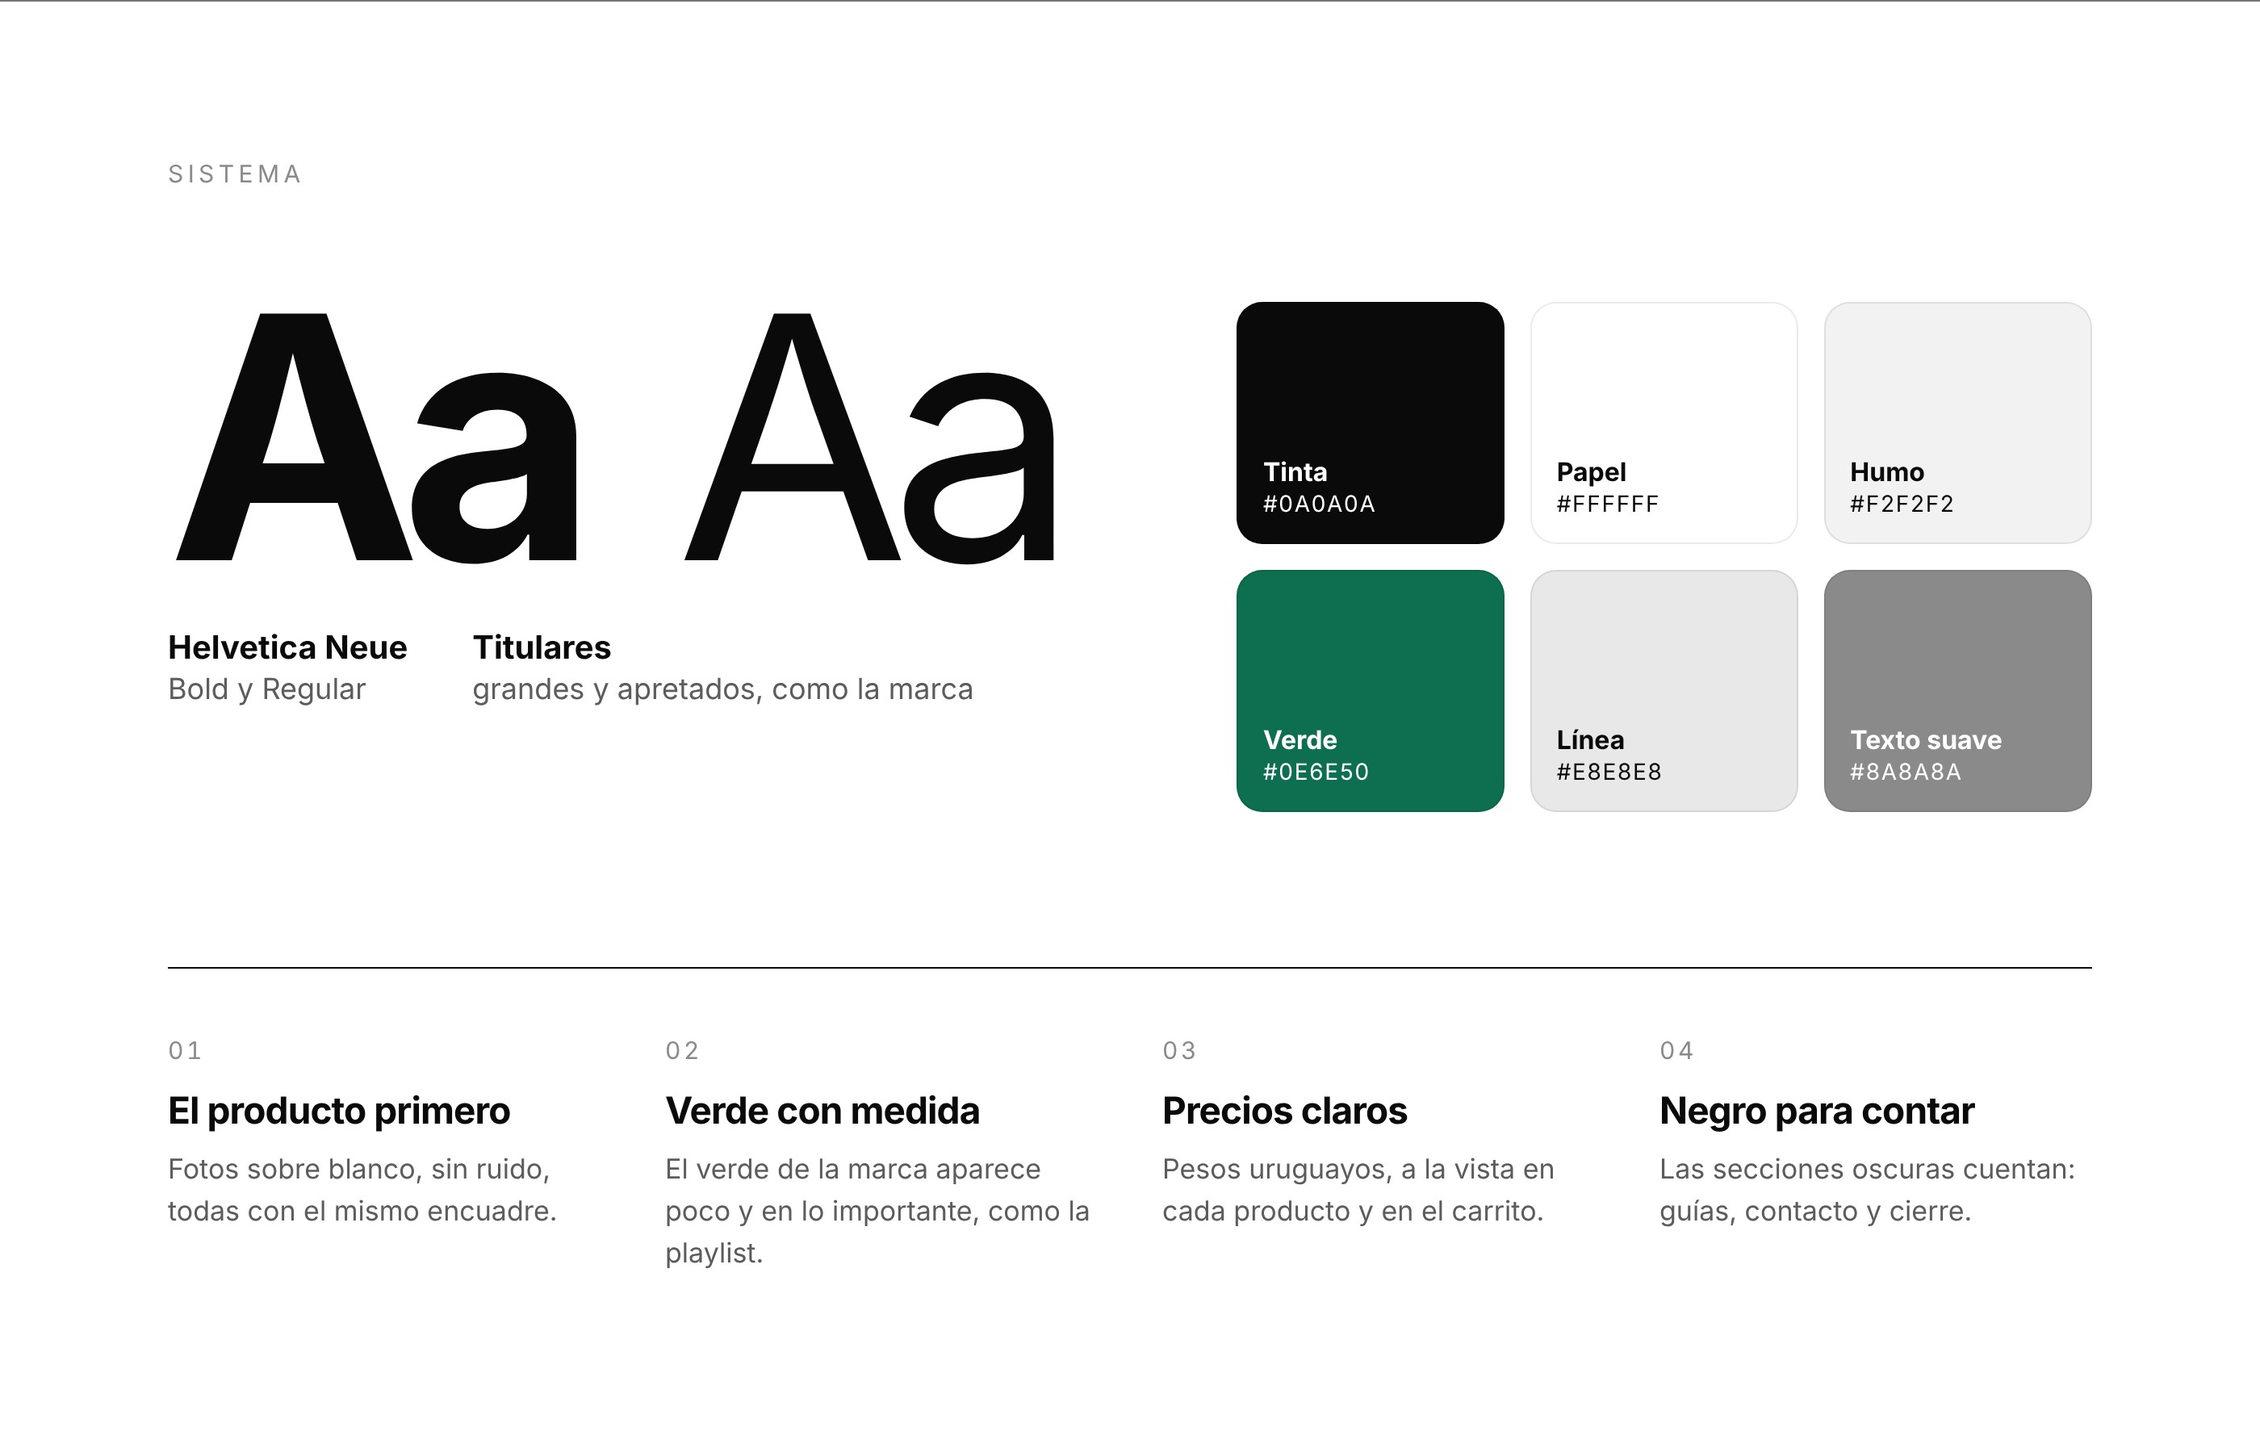
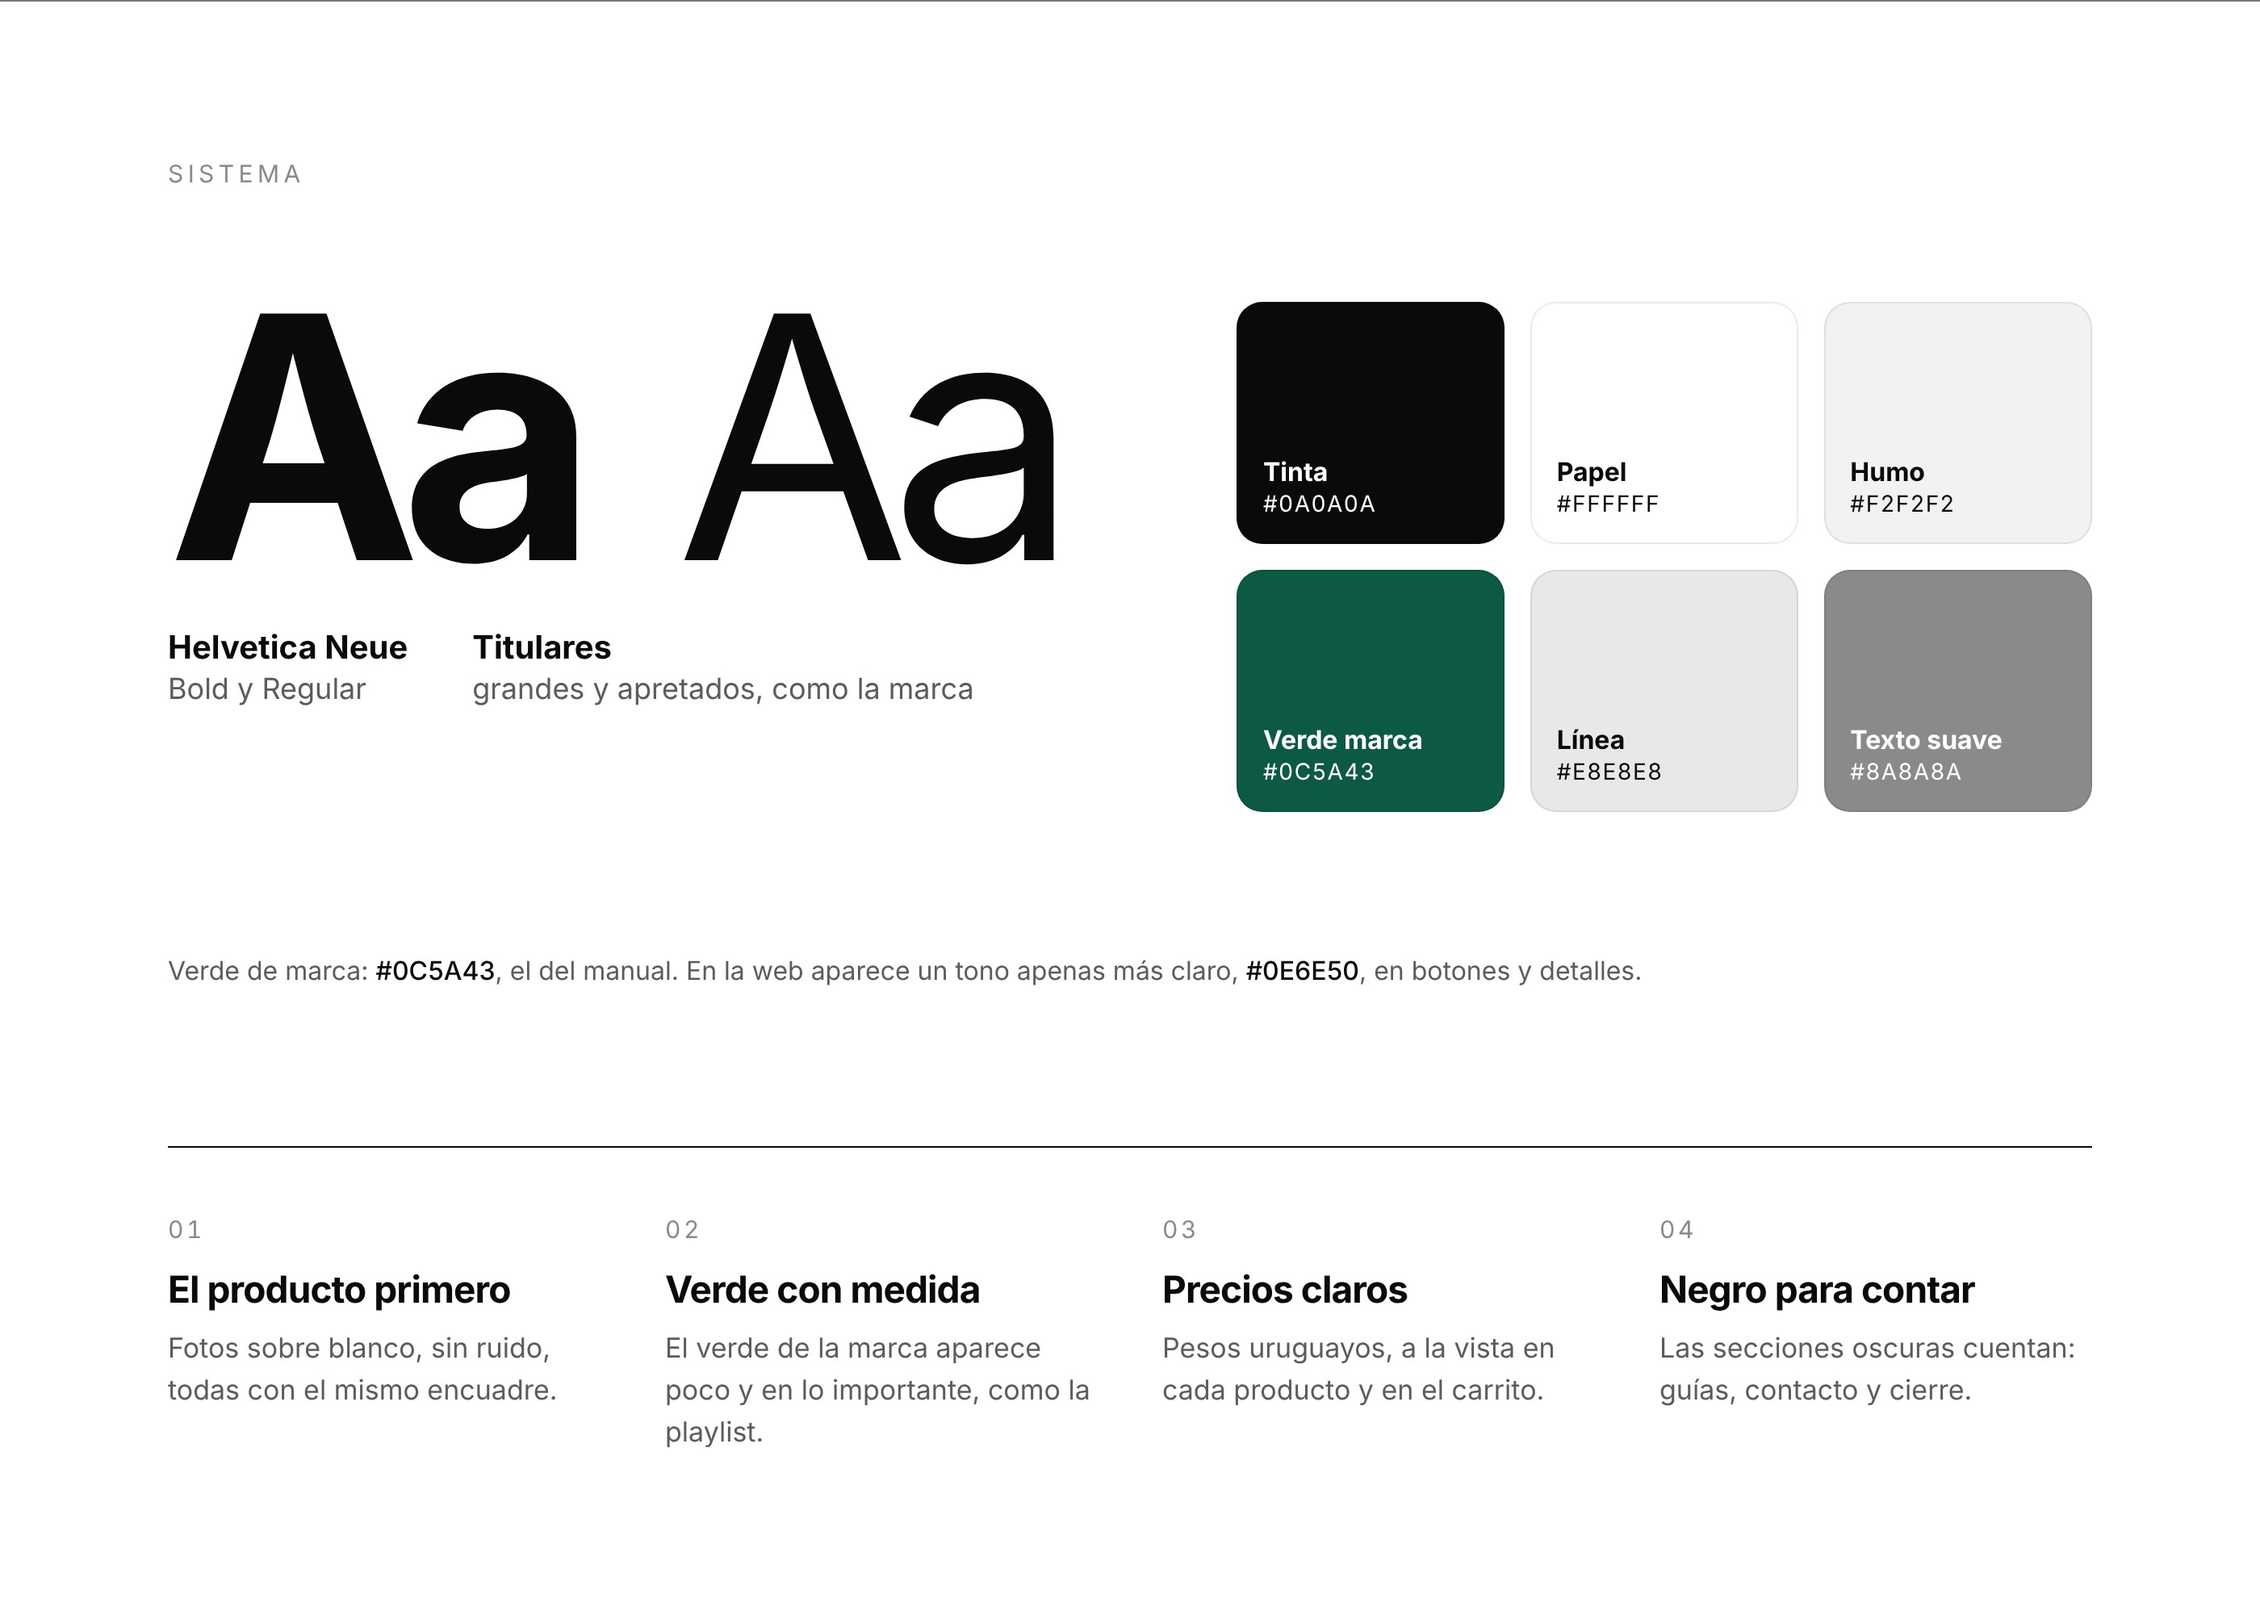
La tienda: verde de marca exacto (#0C5A43) en la lámina de sistema
Aclara que la web usa un tono algo más claro (#0E6E50).

Claude-Session: https://claude.ai/code/session_01QovTd1svokrwb4tv5jAwRt

diff --git a/behance/un-amargo-tienda/fuente/laminas.html b/behance/un-amargo-tienda/fuente/laminas.html
@@ -107,6 +107,8 @@
   #s10 .sw { display: grid; grid-template-columns: repeat(3, 1fr); gap: 16px; }
   #s10 .sw div { height: 150px; border-radius: 16px; padding: 16px; display: flex; flex-direction: column; justify-content: flex-end; font-size: 14px; letter-spacing: .06em; box-shadow: inset 0 0 0 1px rgba(0,0,0,.08); }
   #s10 .sw b { font-size: 16px; letter-spacing: 0; margin-bottom: 2px; }
+  #s10 .note { grid-column: 1 / -1; font-size: 16px; margin-top: 6px; }
+  #s10 .note b { color: var(--tinta); font-weight: 500; }
   #s10 .rules { display: grid; grid-template-columns: repeat(4, 1fr); gap: 40px; margin-top: 96px; padding-top: 40px; border-top: 1.5px solid var(--tinta); }
   #s10 .rules h3 { font-size: 23px; letter-spacing: -.02em; margin: 14px 0 10px; }
   #s10 .rules p { font-size: 17px; }
@@ -224,9 +226,11 @@
       <div style="background:#0a0a0a;color:#fff"><b>Tinta</b>#0A0A0A</div>
       <div style="background:#ffffff"><b>Papel</b>#FFFFFF</div>
       <div style="background:#f2f2f2"><b>Humo</b>#F2F2F2</div>
-      <div style="background:#0e6e50;color:#fff"><b>Verde</b>#0E6E50</div>
+      <div style="background:#0c5a43;color:#fff"><b>Verde marca</b>#0C5A43</div>
       <div style="background:#e8e8e8"><b>Línea</b>#E8E8E8</div>
       <div style="background:#8a8a8a;color:#fff"><b>Texto suave</b>#8A8A8A</div>
+    </div>
+      <p class="note">Verde de marca: <b>#0C5A43</b>, el del manual. En la web aparece un tono apenas más claro, <b>#0E6E50</b>, en botones y detalles.</p>
     </div>
   </div>
   <div class="rules">
